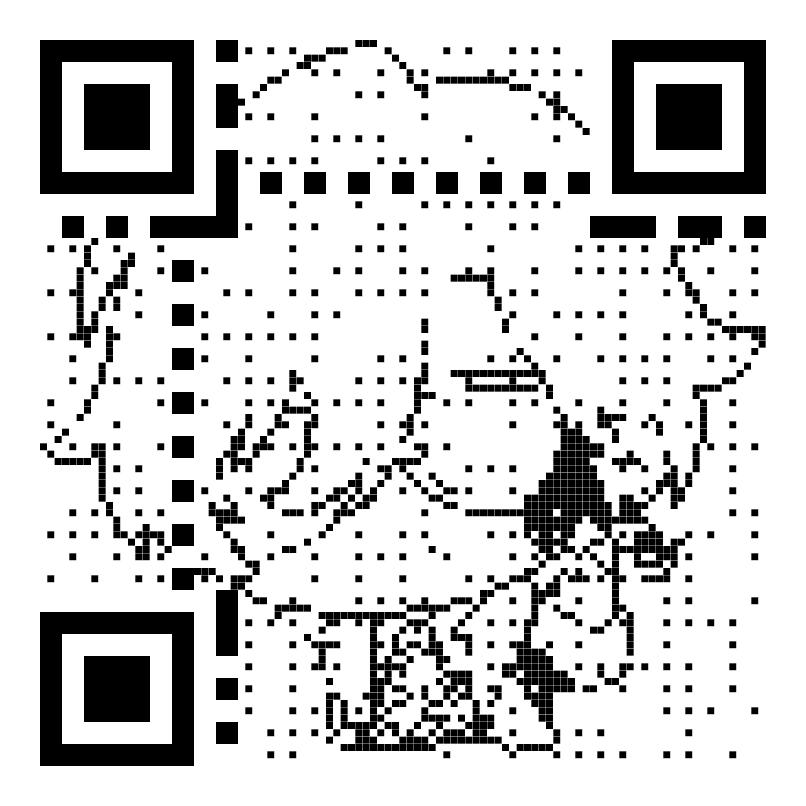
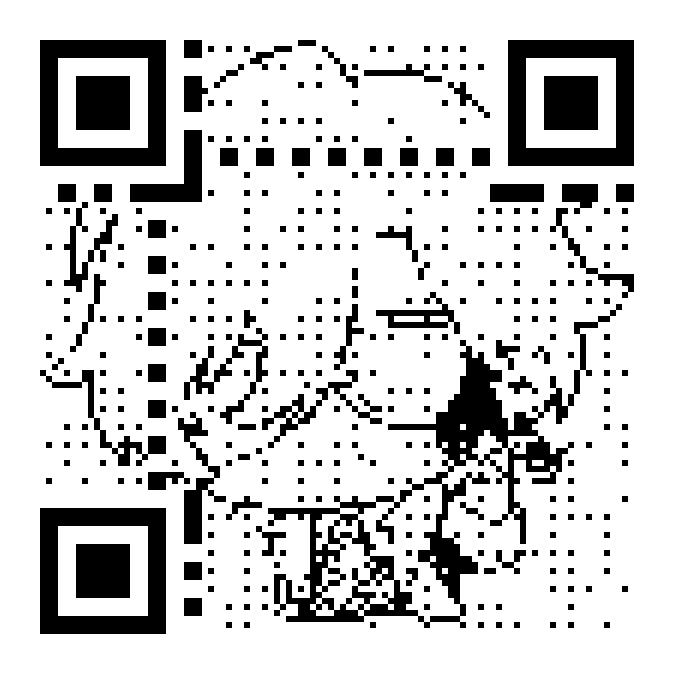
init

diff --git a/src/image/qrCodeKit/yeqown_file_test.go b/src/image/qrCodeKit/yeqown_file_test.go
@@ -33,7 +33,7 @@ func TestEncodeToFile2(t *testing.T) {
 
 	err := EncodeToFile("https://github.com/richelieu-yang/chimera", "_test2.png",
 		standard.WithHalftone(halftonePath),
-		standard.WithQRWidth(22),
+		standard.WithQRWidth(18),
 	)
 	if err != nil {
 		panic(err)
